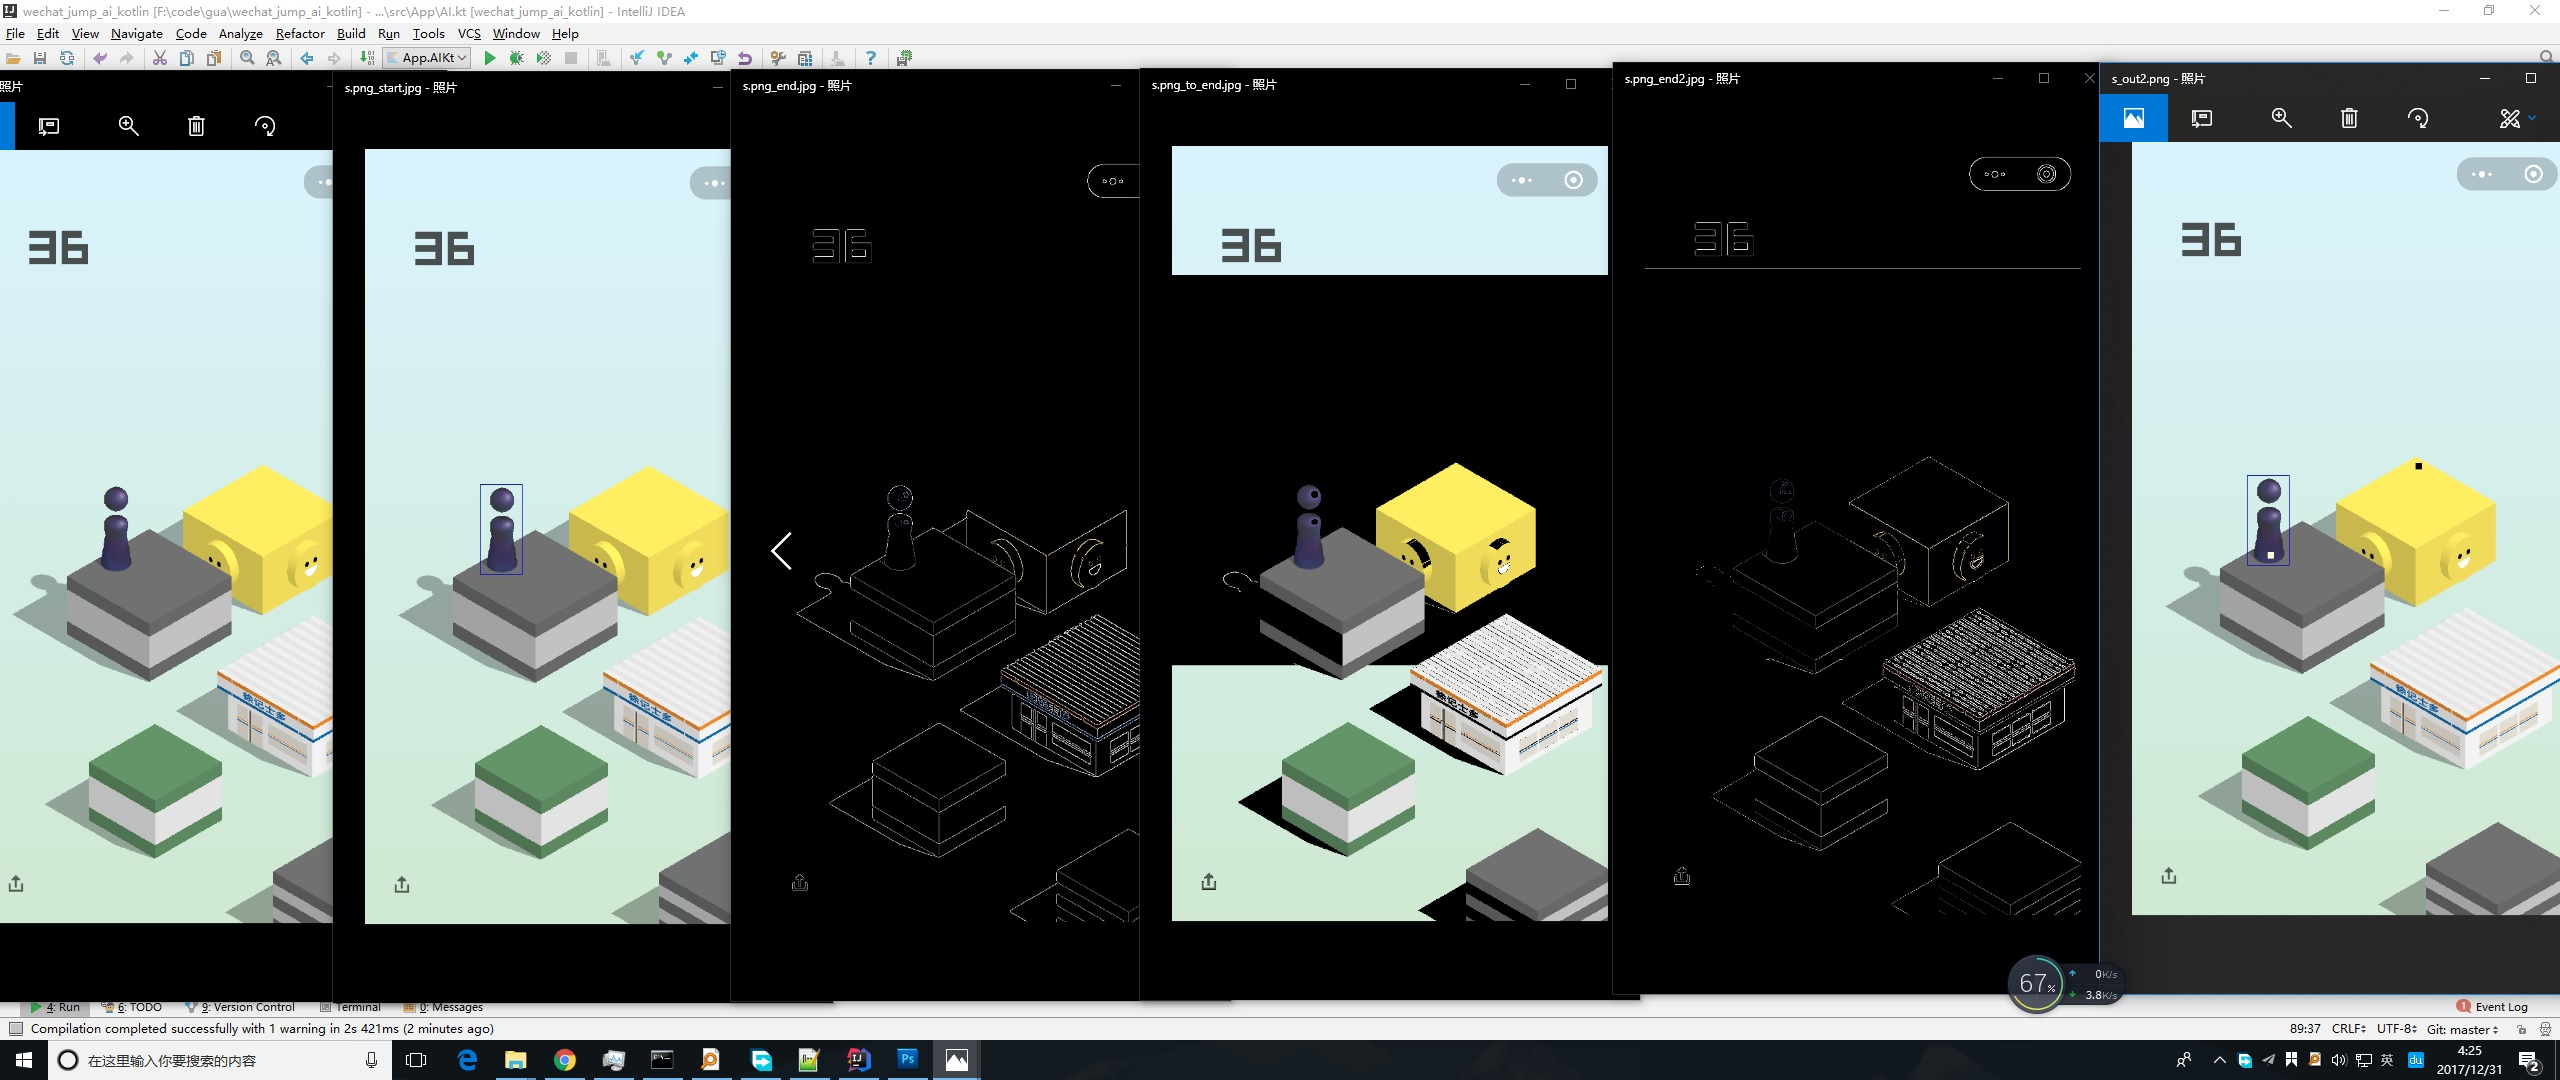
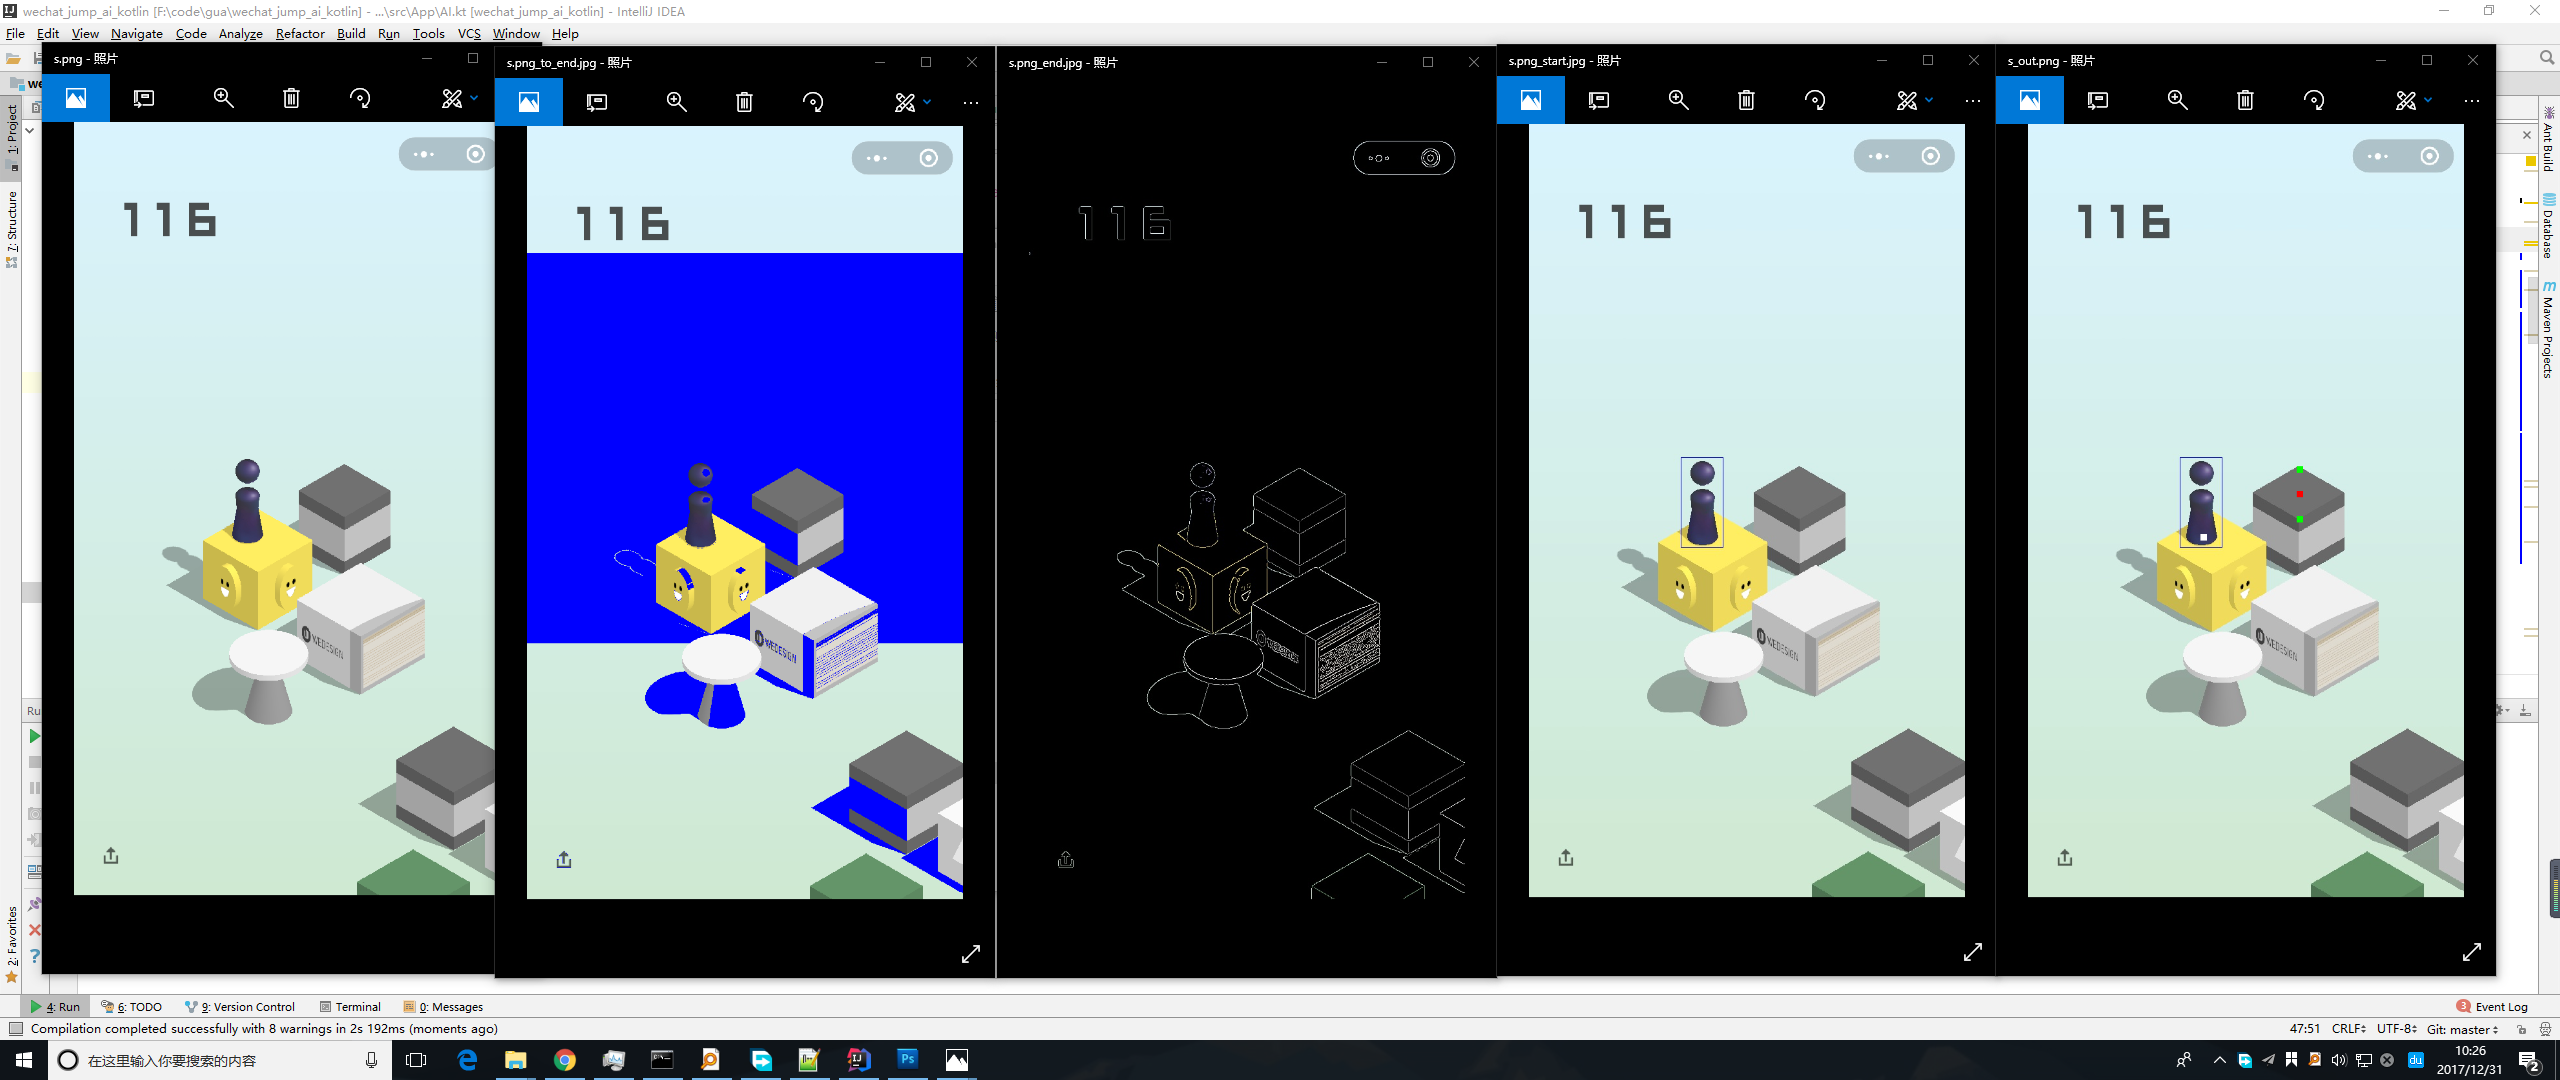
更改查找目标区域的方式,重构部分代码.

diff --git a/src/App/AI.kt b/src/App/AI.kt
@@ -17,28 +17,6 @@ import javax.imageio.ImageIO
  * @Date: Created by uglyer in 2017/12/30.
  */
 
-fun notBg(color: Color, bgColor: Color, bgColorEnd: Color): Boolean {
-    if (color.red in 251..255 && color.green in 70..76 && color.blue in 82..85) return true //红包盒子
-    if (color.red in 179..190 && color.green in 235..245 && color.blue in 65..70) return true //绿色盒子
-    if (color.red in 97..101 && color.green in 145..150 && color.blue in 100..109) return true //深绿色盒子
-    if (color.red in 105..119 && color.green in 105..119 && color.blue in 105..119) return true //灰色圆桌
-    if (color.red in 240..244 && color.green in 240..244 && color.blue in 240..244) return true //灰色书本
-    if (color.red in 245..255 && color.green in 245..255 && color.blue in 245..255) return true //白色盒子
-    if (color.red in 254..255 && color.green in 170..175 && color.blue in 175..180) return true //粉色盒子
-    if (color.red in 134..138 && color.green in 120..125 && color.blue in 225..230) return true //紫色盒子
-
-    //是否为变化的背景
-    if ((color.red in bgColor.red - 8..bgColor.red + 8
-            && color.green in bgColor.green - 8..bgColor.green + 8
-            && color.blue in bgColor.blue - 8..bgColor.blue + 8)
-            || (color.red in bgColorEnd.red - 8..bgColorEnd.red + 8
-            && color.green in bgColorEnd.green - 8..bgColorEnd.green + 8
-            && color.blue in bgColorEnd.blue - 8..bgColorEnd.blue + 8)
-            || color.blue in bgColorEnd.blue..bgColor.blue) return false
-    if (color.red == 255 && color.green == 238 && color.blue == 97) return true
-
-    return color.red < 253 && (color.green < 240 || color.green > 250) && (color.blue > 180 || color.blue < 140)
-}
 
 fun isStart(color: Color): Boolean {
     return (color.red in 52..60) && (color.green in 49..55) && (color.blue in 85..92)
@@ -56,174 +34,105 @@ fun runAI(bufferedImage: BufferedImage): BufferedImage {
     var startH = 0
     var endW = 0
     var endH = 0
-    var count = 0
-    var refind = 0
-    var findStart = true
+    var endH2 = 0
     val bgColor = Color(bufferedImage.getRGB(0, 0))
     val bgColorEnd = Color(bufferedImage.getRGB(0, bufferedImage.width - 100))
     println("bgColor R:${bgColor.red} G:${bgColor.green} B:${bgColor.blue}")
 
-    if (USE_OPENCV) {
-        ImageIO.write(bufferedImage, "png", File(SCREENSHOT_LOCATION))
-        //去杂色
-        for (h in 200 until bufferedImage.height) {
-            for (w in 0 until bufferedImage.width) {
-                val rgbValue = bufferedImage.getRGB(w, h)
-                val color = Color(rgbValue)
-                if (!notBg(color, bgColor, bgColorEnd)) {
-                    bufferedImage.setRGB(w, h, Color(0,0,255).rgb)
-                }
-            }
-        }
-        ImageIO.write(bufferedImage, "png", File(SCREENSHOT_LOCATION + "_to_end.jpg"))
-        val source = Imgcodecs.imread(SCREENSHOT_LOCATION)//读图像
-        val template = Imgcodecs.imread(START_LOCATION)
-
-        val outputImage = Mat()
-        val machMethod = Imgproc.TM_CCOEFF
-        //Template matching method
-        Imgproc.matchTemplate(source, template, outputImage, machMethod)
-        val mmr = Core.minMaxLoc(outputImage)
-        val matchLoc = mmr.maxLoc
-        val toEnd = Imgcodecs.imread(SCREENSHOT_LOCATION + "_to_end.jpg")
-        val new_img = doCanny(toEnd)
-        Imgcodecs.imwrite(SCREENSHOT_LOCATION + "_end.jpg", new_img)//写图像
-        //Draw rectangle on result image
-        Imgproc.rectangle(source, matchLoc, org.opencv.core.Point(matchLoc.x + template.cols(),
-                matchLoc.y + template.rows()), Scalar(255.0, 0.0, 0.0))
-        Imgcodecs.imwrite(SCREENSHOT_LOCATION + "_start.jpg", source)
-        val startLeftTop = Point(matchLoc.x.toInt(), matchLoc.y.toInt())
-        val startRightBottom = Point((matchLoc.x + template.cols()).toInt(), (matchLoc.y + template.rows()).toInt())
-        val bufferedImageEnd = ImageIO.read(File(SCREENSHOT_LOCATION + "_end.jpg"))
-        for (h in 200 until bufferedImageEnd.height) {
-            for (w in 20 until bufferedImageEnd.width) {
-                val rgbValue = bufferedImageEnd.getRGB(w, h)
-                val color = Color(rgbValue)
-                if ((color.red > 5 && color.green > 5 && color.blue > 5)
-                        && (w > startRightBottom.x
-//                        && h > startRightBottom.y
-                        || w < startLeftTop.x)
-//                        && h < startLeftTop.y
-                        && endH == 0) {
-                    endW = w
-                    endH = h + 10
-                    println("color.red:${color.red} G:${color.green} B:${color.blue} a:${color.alpha}")
-                }
-            }
-        }
-        startW = startLeftTop.x + 32
-        startH = startRightBottom.y - 20
-        val buffedImageResult = ImageIO.read(File(SCREENSHOT_LOCATION + "_start.jpg"))
-        for (i in 0 until 10) {
-            for (j in 0 until 10) {
-                buffedImageResult.setRGB(endW + i, endH + j, 0)
-            }
-        }
-        for (i in 0 until 10) {
-            for (j in 0 until 10) {
-                buffedImageResult.setRGB(startW + i, startH + j, -555)
-            }
-        }
-        println("Complated.")
-        ImageIO.write(buffedImageResult, "png", File(SCREENSHOT_LOCATION_OUT))
-        if (IS_SAVE_HISTORY)
-            ImageIO.write(buffedImageResult, "png", File("$SCREENSHOT_LOCATION_OUT_DIR\\_${index}_2.png"))
-        val distance = distance(Point(startW, startH), Point(endW, endH))
-        println("distance:" + distance)
-        call(distance * MAGIC_NUMBER)//magic number
-        index++
-        return buffedImageResult
-//    getFace(img)
+    if (!USE_OPENCV) {
+        throw Exception("最后一版支持不用 OpenCV 的是 d556d1d")
     }
+    ImageIO.write(bufferedImage, "png", File(SCREENSHOT_LOCATION))
+    //去杂色
+    bufferedImage.findByCondition(isBreak = false, startH = 200,
+            condition = { w, h, color -> !color.notBg(bgColor, bgColorEnd) }) { w, h, color ->
+        bufferedImage.setRGB(w, h, Color(0, 0, 255).rgb)
+    }
+    ImageIO.write(bufferedImage, "png", File(SCREENSHOT_LOCATION + "_to_end.jpg"))
+    val source = Imgcodecs.imread(SCREENSHOT_LOCATION)//读图像
+    val template = Imgcodecs.imread(START_LOCATION)
 
-    for (h in 200 until bufferedImage.height) {
-        for (w in 0 until bufferedImage.width) {
-            val rgbValue = bufferedImage.getRGB(w, h)
+    val outputImage = Mat()
+    val machMethod = Imgproc.TM_CCOEFF
+    //Template matching method
+    Imgproc.matchTemplate(source, template, outputImage, machMethod)
+    val mmr = Core.minMaxLoc(outputImage)
+    val matchLoc = mmr.maxLoc
+    val toEnd = Imgcodecs.imread(SCREENSHOT_LOCATION + "_to_end.jpg")
+    val new_img = toEnd.doCanny()
+    Imgcodecs.imwrite(SCREENSHOT_LOCATION + "_end.jpg", new_img)
+    //Draw rectangle on result image
+    Imgproc.rectangle(source, matchLoc, org.opencv.core.Point(matchLoc.x + template.cols(),
+            matchLoc.y + template.rows()), Scalar(255.0, 0.0, 0.0))
+    Imgcodecs.imwrite(SCREENSHOT_LOCATION + "_start.jpg", source)
+    val startLeftTop = Point(matchLoc.x.toInt(), matchLoc.y.toInt())
+    val startRightBottom = Point((matchLoc.x + template.cols()).toInt(), (matchLoc.y + template.rows()).toInt())
+    val bufferedImageEnd = ImageIO.read(File(SCREENSHOT_LOCATION + "_end.jpg"))
+
+//        bufferedImageEnd.findByCondition(startH = 200,
+//                condition = { w, h, color ->
+//                    color.notBlack() && (w > startRightBottom.x
+////                        && h > startRightBottom.y
+//                            || w < startLeftTop.x)
+////                        && h < startLeftTop.y
+//                            && endH == 0
+//                }) { w, h, color ->
+//            endW = w
+//            endH = h
+//            println("endW:${w},endH:${h}")
+//            println("color.red:${color.red} G:${color.green} B:${color.blue} a:${color.alpha}")
+//        }
+
+    for (h in 200 until bufferedImageEnd.height) {
+        for (w in 20 until bufferedImageEnd.width) {
+            val rgbValue = bufferedImageEnd.getRGB(w, h)
             val color = Color(rgbValue)
-            if (notBg(color, bgColor, bgColorEnd)) {
-                if (count == 40) {
-                    endW = w
-                    endH = h + 10
-                    findStart = true
-                }
-                if (findStart) {
-//                    print("color.red:${color.red} G:${color.green} B:${color.blue}")
-                    if (isStart(color)) {
-                        startW = w
-                        startH = h
-                        findStart = false
-                        //目标区域比起跳点y轴小的情况,需要重新查找
-                        if (endW in startW - 50..startW + 60) {
-                            refind = h + 20
-                        }
-                    }
-                }
-                count++
-//                bufferedImage.setRGB(w, h, 0)
-            }
-
-        }
-    }
-
-    if (refind > 0 && !USE_OPENCV) {
-        count = 0
-        for (h in 200 until bufferedImage.height) {
-            for (w in 0 until bufferedImage.width) {
-                val rgbValue = bufferedImage.getRGB(w, h)
-                val color = Color(rgbValue)
-                if (notBg(color, bgColor, bgColorEnd)) {
-                    if (count == 40) {
-                        endW = w
-                        endH = h + 10
-                        if (endW in startW - 50..startW + 60) {
-                            count = 0
-                        }
-                    }
-                    count++
-                }
-
+            if ((color.red > 5 && color.green > 5 && color.blue > 5)
+                    && (w > startRightBottom.x
+//                        && h > startRightBottom.y
+                    || w < startLeftTop.x)
+//                        && h < startLeftTop.y
+                    && endH == 0) {
+                endW = w
+                endH = h
+                println("color.red:${color.red} G:${color.green} B:${color.blue} a:${color.alpha}")
             }
         }
     }
 
+    val buffedImageResult = ImageIO.read(File(SCREENSHOT_LOCATION + "_start.jpg"))
+    buffedImageResult.paintPoint(endW, endH, Color(0, 255, 0))
 
-    for (i in 0 until 20) {
-        for (j in 0 until 20) {
-            bufferedImage.setRGB(endW + i, endH + j, 0)
-        }
+    bufferedImageEnd.findByCondition(inW = endW, startH = endH + 5,
+            condition = { w, h, color -> color.notBlack() }) { w, h, color ->
+        endH2 = h
+        println("endH2:${endH2}")
+        println("color.red:${color.red} G:${color.green} B:${color.blue} a:${color.alpha}")
     }
-    for (i in 0 until 20) {
-        for (j in 0 until 20) {
-            bufferedImage.setRGB(startW + i, startH + j, -555)
-        }
-    }
-    ImageIO.write(bufferedImage, "png", File(SCREENSHOT_LOCATION_OUT))
+
+    buffedImageResult.paintPoint(endW, endH2, Color(0, 255, 0))
+
+    println("endH = (endH2 - endH) / 2:${endH} = (${endH2} - ${endH}) / 2")
+
+    endH += (endH2 - endH) / 2
+    startW = startLeftTop.x + 32
+    startH = startRightBottom.y - 20
+
+    buffedImageResult.paintPoint(endW, endH, Color(255, 0, 0))
+    buffedImageResult.paintPoint(startW, startH, Color(255, 255, 255))
+
+    println("Complated.")
+    ImageIO.write(buffedImageResult, "png", File(SCREENSHOT_LOCATION_OUT))
     if (IS_SAVE_HISTORY)
-        ImageIO.write(bufferedImage, "png", File("$SCREENSHOT_LOCATION_OUT_DIR\\_${index}_2.png"))
+        ImageIO.write(buffedImageResult, "png", File("$SCREENSHOT_LOCATION_OUT_DIR\\_${index}_2.png"))
     val distance = distance(Point(startW, startH), Point(endW, endH))
     println("distance:" + distance)
     call(distance * MAGIC_NUMBER)//magic number
     index++
-    return bufferedImage
+    return buffedImageResult
 }
 
-fun doCanny(frame: Mat): Mat {
-    // init
-    val grayImage = Mat()
-    val detectedEdges = Mat()
-    val threshold = 10.0
-    // convert to grayscale
-    Imgproc.cvtColor(frame, grayImage, Imgproc.COLOR_BGR2GRAY)
-    // reduce noise with a 3x3 kernel
-    Imgproc.blur(grayImage, detectedEdges, Size(3.0, 3.0))
-    // canny detector, with ratio of lower:upper threshold of 3:1
-    Imgproc.Canny(detectedEdges, detectedEdges, threshold, threshold * 3)
-    // using Canny's output as a mask, display the result
-    val dest = Mat()
-    frame.copyTo(dest, detectedEdges)
-    return dest
-}
-
+//test
 fun main(args: Array<String>) {
     if (USE_OPENCV) System.loadLibrary(Core.NATIVE_LIBRARY_NAME)
     val bufferedImage = ImageIO.read(File(SCREENSHOT_LOCATION))

diff --git a/src/App/Function.kt b/src/App/Function.kt
@@ -1,0 +1,85 @@
+package App
+
+import org.opencv.core.Mat
+import org.opencv.core.Size
+import org.opencv.imgproc.Imgproc
+import java.awt.Color
+import java.awt.image.BufferedImage
+
+/**
+ * 扩展方法
+ * @Date: Created by uglyer in 2017/12/31.
+ */
+
+fun BufferedImage.paintPoint(w: Int, h: Int, color: Color) {
+    for (i in 0 until 10) {
+        for (j in 0 until 10) {
+            setRGB(w + i, h + j, color.rgb)
+        }
+    }
+}
+
+inline fun BufferedImage.findByCondition(isBreak: Boolean = true, inW: Int = -1, startW: Int = 0, startH: Int = 0, condition: (w: Int, h: Int, color: Color) -> Boolean, action: (w: Int, h: Int, color: Color) -> Unit) {
+    for (h in startH until height) {
+        if (inW > 0) {
+            val rgbValue = getRGB(inW, h)
+            val color = Color(rgbValue)
+            if (condition(inW, h, color)) {
+                action(inW, h, color)
+                if (isBreak) return
+            }
+        } else {
+            for (w in startW until width) {
+                val rgbValue = getRGB(w, h)
+                val color = Color(rgbValue)
+                if (condition(w, h, color)) {
+                    action(w, h, color)
+                    if (isBreak) return
+                }
+            }
+        }
+    }
+}
+
+fun Color.notBg(bgColor: Color, bgColorEnd: Color): Boolean {
+    val color = this
+    if (color.red in 251..255 && color.green in 70..76 && color.blue in 82..85) return true //红包盒子
+    if (color.red in 179..190 && color.green in 235..245 && color.blue in 65..70) return true //绿色盒子
+    if (color.red in 97..101 && color.green in 145..150 && color.blue in 100..109) return true //深绿色盒子
+    if (color.red in 105..119 && color.green in 105..119 && color.blue in 105..119) return true //灰色圆桌
+    if (color.red in 240..244 && color.green in 240..244 && color.blue in 240..244) return true //灰色书本
+    if (color.red in 245..255 && color.green in 245..255 && color.blue in 245..255) return true //白色盒子
+    if (color.red in 254..255 && color.green in 170..175 && color.blue in 175..180) return true //粉色盒子
+    if (color.red in 134..138 && color.green in 120..125 && color.blue in 225..230) return true //紫色盒子
+
+    //是否为变化的背景
+    if ((color.red in bgColor.red - 8..bgColor.red + 8
+            && color.green in bgColor.green - 8..bgColor.green + 8
+            && color.blue in bgColor.blue - 8..bgColor.blue + 8)
+            || (color.red in bgColorEnd.red - 8..bgColorEnd.red + 8
+            && color.green in bgColorEnd.green - 8..bgColorEnd.green + 8
+            && color.blue in bgColorEnd.blue - 8..bgColorEnd.blue + 8)
+            || color.blue in bgColorEnd.blue..bgColor.blue) return false
+    if (color.red == 255 && color.green == 238 && color.blue == 97) return true
+
+    return color.red < 253 && (color.green < 240 || color.green > 250) && (color.blue > 180 || color.blue < 140)
+}
+
+fun Color.notBlack(): Boolean = red > 0 && green > 0 && blue > 0
+
+fun Mat.doCanny(): Mat {
+    // init
+    val grayImage = Mat()
+    val detectedEdges = Mat()
+    val threshold = 10.0
+    // convert to grayscale
+    Imgproc.cvtColor(this, grayImage, Imgproc.COLOR_BGR2GRAY)
+    // reduce noise with a 3x3 kernel
+    Imgproc.blur(grayImage, detectedEdges, Size(3.0, 3.0))
+    // canny detector, with ratio of lower:upper threshold of 3:1
+    Imgproc.Canny(detectedEdges, detectedEdges, threshold, threshold * 3)
+    // using Canny's output as a mask, display the result
+    val dest = Mat()
+    this.copyTo(dest, detectedEdges)
+    return dest
+}
